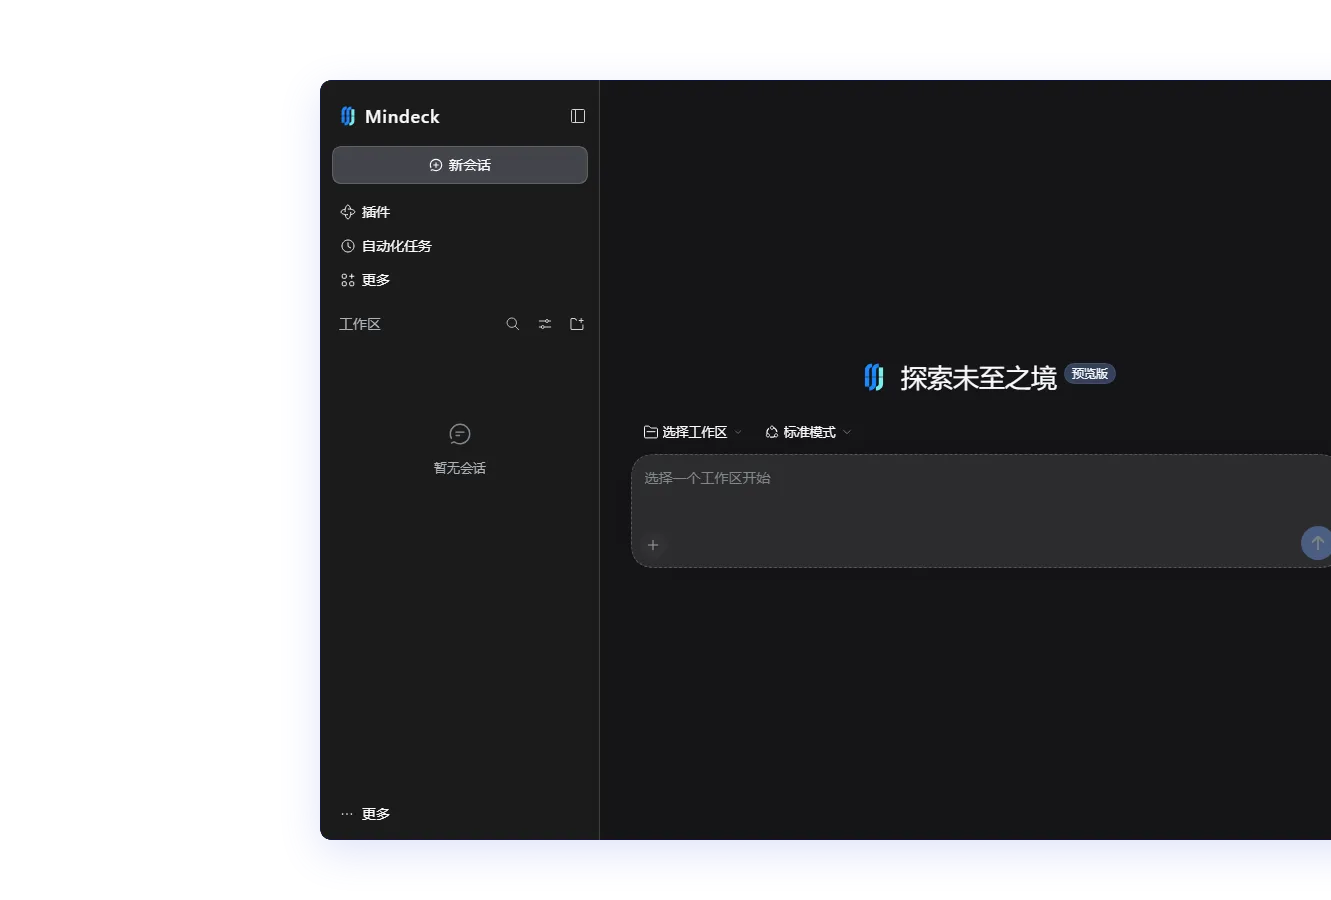
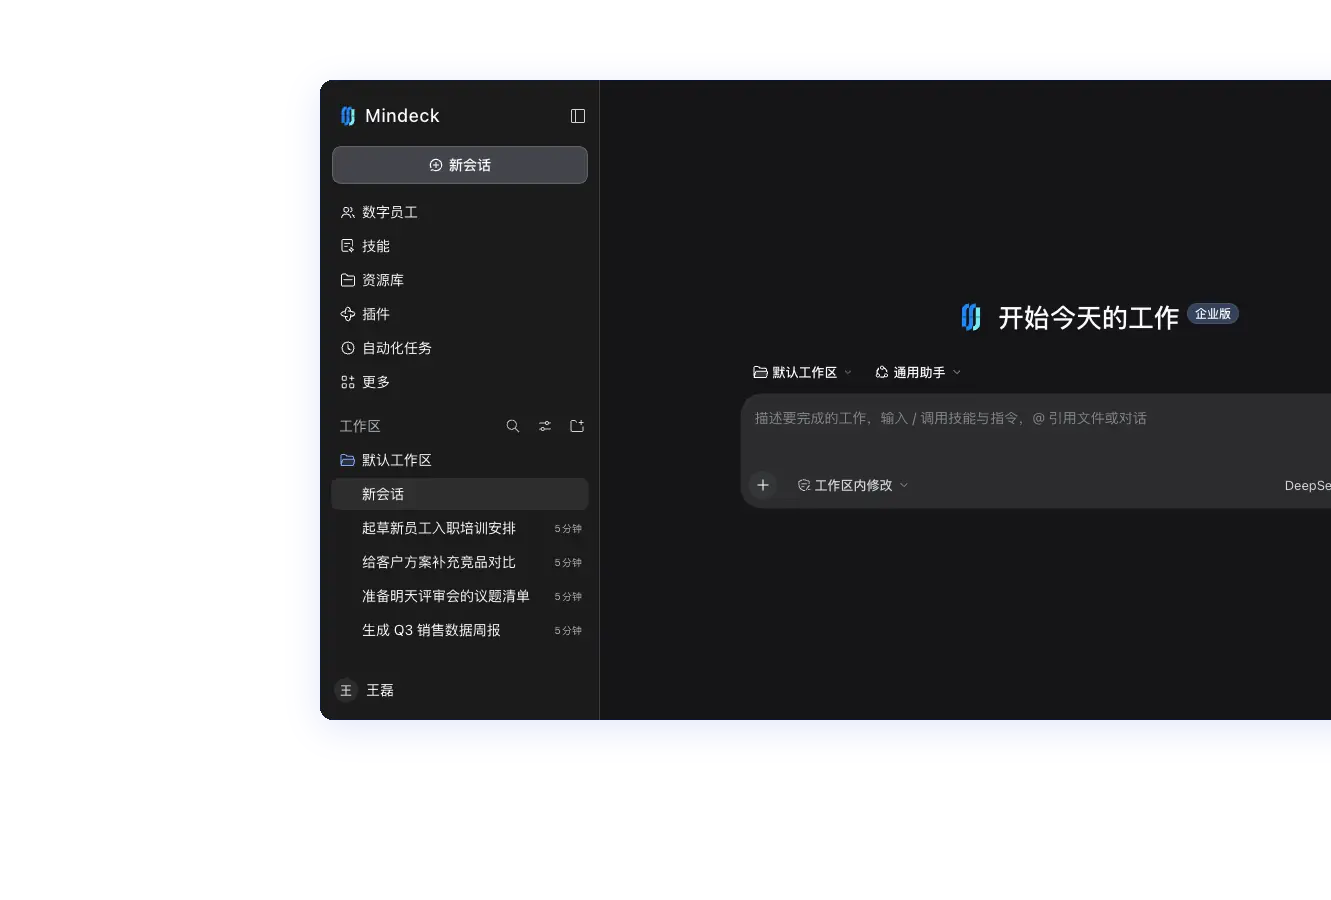
fix(mindeck): show the current workspace in the welcome artwork
The four welcome screenshots showed an old workspace: a sidebar without
Digital employees, Skills, and File library, and the base "探索未至之境"
headline. They are recaptured from the signed-in app at 1280 x 640, the
width of a new Desktop window, in English and Chinese, light and dark, with
a few conversations and the "开始今天的工作" headline with its 企业版 badge.
The frame stays the 1331 x 900 canvas with the window at (320, 80); the
shorter window keeps its bottom edge in view at 1440 x 900 and 1280 x 820.
The branding page records what the screenshots show and the first-run page
slot that also uses them.

diff --git a/docs/mindeck/branding.md b/docs/mindeck/branding.md
@@ -47,7 +47,7 @@ The build plugin keeps manifest, favicon and touch-icon URLs relative to the pag
 
 Web product copy uses the public locale parameters. Native menus, dialogs and installer messages use the same product description's name. DeepSeek account, model and recharge references retain the service provider's name. Upstream credits, licenses, package names and compatibility identifiers retain their original names.
 
-The brand plugin owns four Mindeck workspace screenshots in its assets: English and Chinese, each in light and dark themes. It provides them to the welcome and credit steps through the root-scoped single slot `desktop.onboarding.illustration`. The shared account UI supplies the original upstream illustrations when the slot is empty, including after the provider unloads.
+The brand plugin owns four Mindeck workspace screenshots in its assets: English and Chinese, each in light and dark themes. Each shows the signed-in workspace at 1280 × 640 CSS pixels, the width of a new Desktop window, with the Digital employees, Skills, and File library pages in the left sidebar, a few conversations, and the new-conversation headline. The workspace is drawn as a window at (320, 80) with a drop shadow on a transparent 1331 × 900 canvas, the frame that the account UI positions, so the welcome page shows the sidebar at common window widths and the headline from about 1,900 pixels wide. Recapture them from the running app when the workspace changes visibly. The plugin provides them to the welcome and credit steps through the root-scoped single slot `desktop.onboarding.illustration`, and to the hero of the shared first-run page, which the Mindeck sign-in uses, through `desktop.onboarding.page.illustration`. The shared account UI supplies the original upstream illustrations when a slot is empty, including after the provider unloads.
 
 <a id="dev-note"></a>
 

diff --git a/docs/mindeck/branding.zh.md b/docs/mindeck/branding.zh.md
@@ -47,7 +47,7 @@ Mindeck 启动器通过 `DSH_LOCALE_PARAMETERS` 公开 `productName` 和 `produc
 
 Web 产品文案使用公开的语言参数。原生菜单、对话框和安装器提示使用同一产品描述中的名称。DeepSeek 账号、模型和充值说明保留服务商名称。上游署名、许可证、包名与兼容标识保留原名。
 
-品牌插件的 assets 中保存四张 Mindeck 工作区截图：中英文各含明暗主题。它通过 root 作用域的 single slot `desktop.onboarding.illustration` 向欢迎与额度步骤提供截图。slot 为空时，包括 provider 卸载后，共享账号 UI 使用上游原始插图。
+品牌插件的 assets 中保存四张 Mindeck 工作区截图：中英文各含明暗主题。每张都是已登录工作区在 1280 × 640 CSS 像素下的样子，即新开桌面端窗口的宽度：左侧栏有数字员工、技能和资源库页面，列出几个对话，主区域是新对话标题。工作区作为一个带投影的窗口画在透明的 1331 × 900 画布的 (320, 80) 处，这正是账号 UI 定位的画框，因此在常见窗口宽度下欢迎页显示侧栏，宽度约 1900 像素起才露出标题。工作区外观明显变化时，应从运行中的应用重新截取。插件通过 root 作用域的 single slot `desktop.onboarding.illustration` 向欢迎与额度步骤提供截图，并通过 `desktop.onboarding.page.illustration` 向 Mindeck 登录所用的共享首次引导页主视觉提供截图。slot 为空时，包括 provider 卸载后，共享账号 UI 使用上游原始插图。
 
 <a id="dev-note"></a>
 
